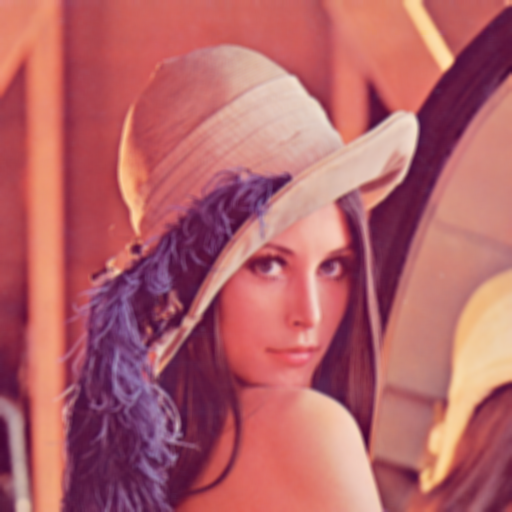
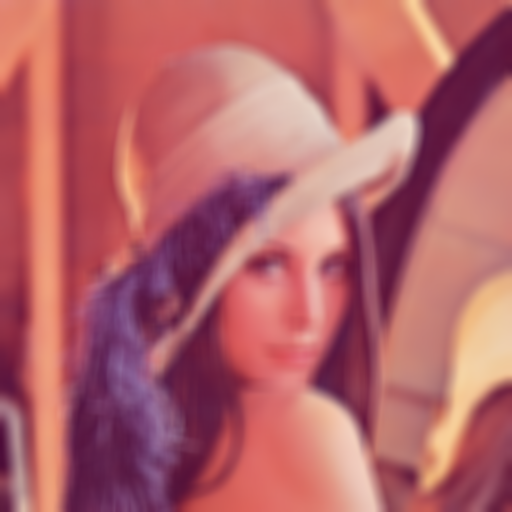
Finished assignment 2

diff --git a/Assignment_2/7_color_shifting.py b/Assignment_2/7_color_shifting.py
@@ -5,14 +5,32 @@ import os
 def hue_shifted(image, emptyPictureArray, hue):
     img = cv2.imread(image)
 
-    hsv_image = cv2.cvtColor(img, cv2.COLOR_BGR2HSV)
+    rgb_image = cv2.cvtColor(img, cv2.COLOR_BGR2RGB)
+
+    cv2.imshow("Lena RGB", rgb_image)
+    cv2.waitKey(0)
+
+    r, g, b = cv2.split(rgb_image)
+
+
+    r_shifted = np.clip(r + hue, 0, 255)
+    g_shifted = np.clip(g + hue, 0, 255)
+    b_shifted = np.clip(b + hue, 0, 255)
+
+    shifted_image = cv2.merge((r_shifted, g_shifted, b_shifted)).astype(np.uint8)
+
+    height, width, channels = img.shape
+
+    for y in range(height):
+        for x in range(width):
+            emptyPictureArray[y, x] = shifted_image[y, x]
     
-    cv2.imshow("Lena HSV", hsv_image)
+    cv2.imshow("Lena HSV", emptyPictureArray)
     cv2.waitKey(0)
     cv2.destroyAllWindows()
 
-    image_output_path = "assignment_2/solutions/assignment_2_lena_hsv.png"
-    cv2.imwrite(image_output_path, hsv_image)
+    image_output_path = "assignment_2/solutions/assignment_2_lena_hue_shifted.png"
+    cv2.imwrite(image_output_path, shifted_image)
 
     print("Saved image")
     return 0
@@ -25,7 +43,7 @@ def main():
     height, width, channels = temp.shape
     emptyPictureArray = np.zeros((height, width, channels), dtype=np.uint8)
 
-    hue_shifted(image_path,)
+    hue_shifted(image_path, emptyPictureArray, 50)
     return 0
 
 main()

diff --git a/Assignment_2/9_rotation.py b/Assignment_2/9_rotation.py
@@ -1,0 +1,34 @@
+import cv2
+import numpy as np
+import os
+
+def rotation(image, rotation_angle):
+    img = cv2.imread(image)
+
+    if (rotation_angle == 90):
+        rotation_code = cv2.ROTATE_90_CLOCKWISE
+    elif (rotation_angle == 180):
+        rotation_code = cv2.ROTATE_180
+    else:
+        return 0
+    
+    rotated_img = cv2.rotate(img, rotation_code)
+    
+    cv2.imshow("Lena rotated", rotated_img)
+    cv2.waitKey(0)
+    cv2.destroyAllWindows()
+
+    image_output_path = "assignment_2/solutions/assignment_2_lena_rotated_90.png"
+    cv2.imwrite(image_output_path, rotated_img)
+
+    print("Saved image")
+    return 0 
+
+
+def main():
+    image_path = "assignment_2\lena-2.png"
+
+    rotation(image_path, 90)
+    return 0
+
+main()

diff --git a/Assignment_2/8_smoothing.py b/Assignment_2/8_smoothing.py
@@ -5,9 +5,9 @@ import os
 def smoothing(image):
     img = cv2.imread(image)
 
-    averaging = cv2.blur(img, (5,5))
-    gaussian = cv2.GaussianBlur(img, (5, 5), cv2.BORDER_DEFAULT)
-    median = cv2.medianBlur(img, 5)
+    averaging = cv2.blur(img, (15,15))
+    gaussian = cv2.GaussianBlur(img, (15, 15), cv2.BORDER_DEFAULT)
+    median = cv2.medianBlur(img, 15)
     
     cv2.imshow("Lena blur", averaging)
     cv2.waitKey(0)

diff --git a/Assignment_1/assignment_1_5.py b/Assignment_1/assignment_1_5.py
@@ -13,7 +13,7 @@ output_path = os.path.join("solutions", "camera_outputs.txt")
 with open(output_path, "w") as output_file:
     output_file.write(f"A: fps: {fps}\n")
     output_file.write(f"B: height: {frame_height}\n")
-    output_file.write(f"C: width: {frame_width}\n") 
+    output_file.write(f"C: width: {frame_width}\n")
 
 while True:
     ret, frame = cam.read()
